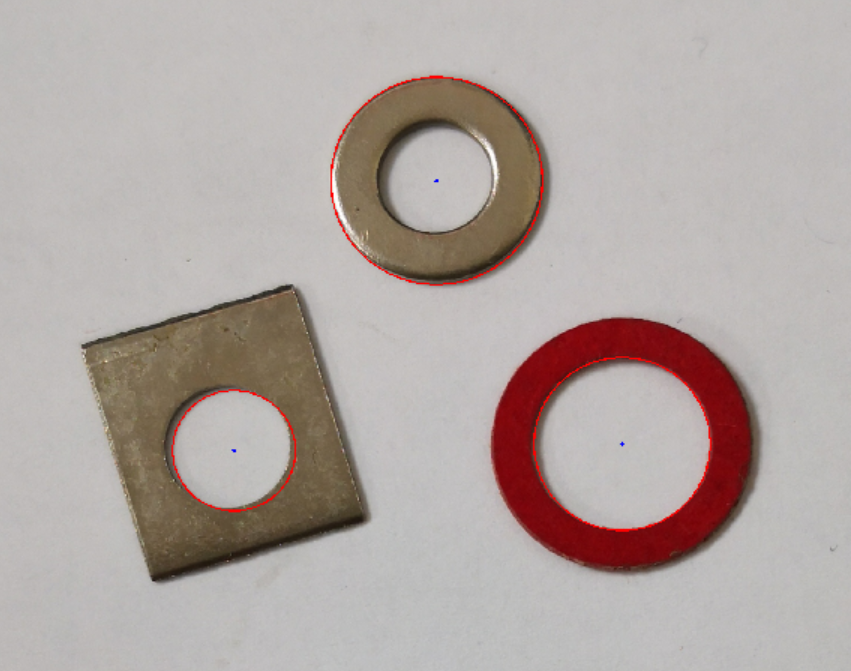
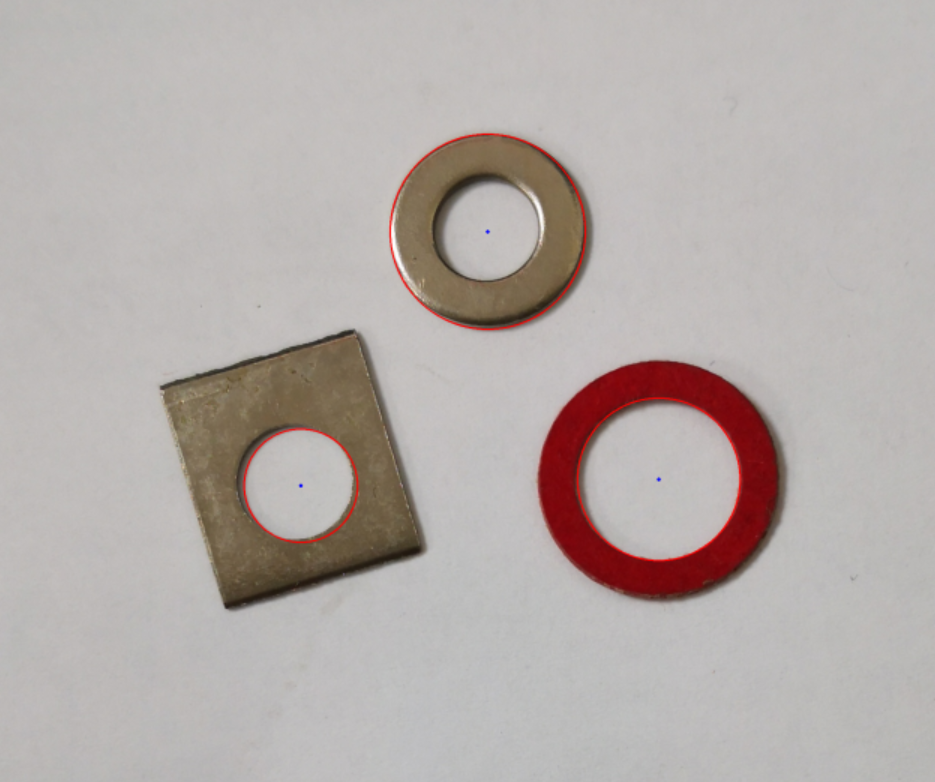
Site updated: 2023-04-06 20:30:58

diff --git a/2023/04/02/measure radius/index.html b/2023/04/02/measure radius/index.html
@@ -87,7 +87,7 @@
 <meta property="og:image" content="https://adwardmarx.github.io/2023/04/02/measure%20radius/colorful.jpg">
 <meta property="og:image" content="https://adwardmarx.github.io/2023/04/02/measure%20radius/processed.png">
 <meta property="article:published_time" content="2023-04-02T05:30:05.000Z">
-<meta property="article:modified_time" content="2023-04-05T05:07:31.638Z">
+<meta property="article:modified_time" content="2023-04-06T12:28:31.637Z">
 <meta property="article:author" content="Adward Marx">
 <meta name="twitter:card" content="summary">
 <meta name="twitter:image" content="https://adwardmarx.github.io/2023/04/02/measure%20radius/colorful.jpg">
@@ -347,7 +347,7 @@
         <p>The course, Machine Vision and Measruement, requires us to measure the washers’size.<br>We got this information:<br>The outer diameter of the washer (the middle and the top one) is 12mm.<br>We need to measure the inside diameter of the other two washers.</p>
 <span id="more"></span>
 <p><img src="/2023/04/02/measure%20radius/colorful.jpg"><br>This is my soloution.</p>
-<figure class="highlight bash"><table><tr><td class="gutter"><pre><span class="line">1</span><br><span class="line">2</span><br><span class="line">3</span><br><span class="line">4</span><br><span class="line">5</span><br><span class="line">6</span><br><span class="line">7</span><br><span class="line">8</span><br><span class="line">9</span><br><span class="line">10</span><br><span class="line">11</span><br><span class="line">12</span><br><span class="line">13</span><br><span class="line">14</span><br><span class="line">15</span><br><span class="line">16</span><br><span class="line">17</span><br><span class="line">18</span><br><span class="line">19</span><br><span class="line">20</span><br><span class="line">21</span><br><span class="line">22</span><br><span class="line">23</span><br><span class="line">24</span><br><span class="line">25</span><br><span class="line">26</span><br><span class="line">27</span><br><span class="line">28</span><br><span class="line">29</span><br><span class="line">30</span><br><span class="line">31</span><br><span class="line">32</span><br><span class="line">33</span><br><span class="line">34</span><br><span class="line">35</span><br><span class="line">36</span><br></pre></td><td class="code"><pre><span class="line">import cv2 as cv</span><br><span class="line">import numpy as np</span><br><span class="line"></span><br><span class="line">def detect_circles(image):</span><br><span class="line">    dst = cv.pyrMeanShiftFiltering(image, 10, 100) <span class="comment">#undo noise</span></span><br><span class="line">    cimage = cv.cvtColor(dst, cv.COLOR_BGR2GRAY)</span><br><span class="line">    circles = cv.HoughCircles(cimage, cv.HOUGH_GRADIENT, 1, 150, param1=20, param2=30, minRadius=0, maxRadius=200)</span><br><span class="line">    <span class="string">&#x27;&#x27;</span><span class="string">&#x27;</span></span><br><span class="line"><span class="string">    HoughCircles(image, method, dp, minDist, circles=None, param1=None, param2=None, minRadius=None, maxRadius=None)</span></span><br><span class="line"><span class="string">    1.image:input image (gray image)</span></span><br><span class="line"><span class="string">    2.method:use HoughCircles</span></span><br><span class="line"><span class="string">    3.dp:defaults to 1</span></span><br><span class="line"><span class="string">    4.minDist = more circles will be thought the same circle if this   value becomes larger</span></span><br><span class="line"><span class="string">    5.param1:Canny threshold</span></span><br><span class="line"><span class="string">    6.param2:this value should be small if the circle is small. however, it will identify more circles </span></span><br><span class="line"><span class="string">    7.minradius:the smallest radius that can be identified</span></span><br><span class="line"><span class="string">    8.maxradius:the largest radius that can be identified</span></span><br><span class="line"><span class="string">    &#x27;</span><span class="string">&#x27;&#x27;</span></span><br><span class="line">    <span class="built_in">factor</span> = 6/186</span><br><span class="line">    circles = np.uint16(np.around(circles)) <span class="comment">#round number</span></span><br><span class="line">    <span class="keyword">for</span> i <span class="keyword">in</span> circles[0, :]:</span><br><span class="line">        cv.circle(image, (i[0], i[1]), i[2], (0, 0, 255), 2)  <span class="comment">#draw circle</span></span><br><span class="line">        cv.circle(image, (i[0], i[1]), 2, (255, 0, 0), 2)  <span class="comment">#draw the center of circle</span></span><br><span class="line">        r = int(i[2])</span><br><span class="line">        x = int(i[0])</span><br><span class="line">        y = int(i[1])</span><br><span class="line">        <span class="built_in">print</span>(<span class="string">&quot;position of the center：&quot;</span>, (x, y))</span><br><span class="line">        <span class="built_in">print</span>(<span class="string">&quot;radius：&quot;</span>, np.around(r*<span class="built_in">factor</span>))</span><br><span class="line"></span><br><span class="line">src = cv.imread(<span class="string">&quot;image path&quot;</span>)</span><br><span class="line">detect_circles(src)</span><br><span class="line">cv.namedWindow(<span class="string">&quot;image&quot;</span>, 0)</span><br><span class="line">cv.resizeWindow(<span class="string">&#x27;image&#x27;</span>,800,720)</span><br><span class="line">cv.imshow(<span class="string">&quot;image&quot;</span>, src)</span><br><span class="line">cv.waitKey(0)</span><br><span class="line">cv.destroyAllWindows()</span><br></pre></td></tr></table></figure>
+<figure class="highlight bash"><table><tr><td class="gutter"><pre><span class="line">1</span><br><span class="line">2</span><br><span class="line">3</span><br><span class="line">4</span><br><span class="line">5</span><br><span class="line">6</span><br><span class="line">7</span><br><span class="line">8</span><br><span class="line">9</span><br><span class="line">10</span><br><span class="line">11</span><br><span class="line">12</span><br><span class="line">13</span><br><span class="line">14</span><br><span class="line">15</span><br><span class="line">16</span><br><span class="line">17</span><br><span class="line">18</span><br><span class="line">19</span><br><span class="line">20</span><br><span class="line">21</span><br><span class="line">22</span><br><span class="line">23</span><br><span class="line">24</span><br><span class="line">25</span><br><span class="line">26</span><br><span class="line">27</span><br><span class="line">28</span><br><span class="line">29</span><br><span class="line">30</span><br><span class="line">31</span><br><span class="line">32</span><br><span class="line">33</span><br><span class="line">34</span><br><span class="line">35</span><br><span class="line">36</span><br><span class="line">37</span><br><span class="line">38</span><br></pre></td><td class="code"><pre><span class="line">import cv2 as cv</span><br><span class="line">import numpy as np</span><br><span class="line"></span><br><span class="line">def detect_circles(image):</span><br><span class="line">    dst = cv.pyrMeanShiftFiltering(image, 10, 100) <span class="comment">#undo noise</span></span><br><span class="line">    cimage = cv.cvtColor(dst, cv.COLOR_BGR2GRAY)</span><br><span class="line">    circles = cv.HoughCircles(cimage, cv.HOUGH_GRADIENT, 1, 150, param1=20, param2=30, minRadius=0, maxRadius=200)</span><br><span class="line">    <span class="string">&#x27;&#x27;</span><span class="string">&#x27;</span></span><br><span class="line"><span class="string">    HoughCircles(image, method, dp, minDist, circles=None, param1=None, param2=None, minRadius=None, maxRadius=None)</span></span><br><span class="line"><span class="string">    1.image:input image (gray image)</span></span><br><span class="line"><span class="string">    2.method:use HoughCircles</span></span><br><span class="line"><span class="string">    3.dp:defaults to 1</span></span><br><span class="line"><span class="string">    4.minDist = more circles will be thought the same circle if this   value becomes larger</span></span><br><span class="line"><span class="string">    5.param1:Canny threshold</span></span><br><span class="line"><span class="string">    6.param2:this value should be small if the circle is small. however, it will identify more circles </span></span><br><span class="line"><span class="string">    7.minradius:the smallest radius that can be identified</span></span><br><span class="line"><span class="string">    8.maxradius:the largest radius that can be identified</span></span><br><span class="line"><span class="string">    &#x27;</span><span class="string">&#x27;&#x27;</span></span><br><span class="line">    <span class="built_in">factor</span> = 6/186</span><br><span class="line">    circles = np.uint16(np.around(circles)) <span class="comment">#round number</span></span><br><span class="line">    <span class="keyword">for</span> i <span class="keyword">in</span> circles[0, :]:</span><br><span class="line">        cv.circle(image, (i[0], i[1]), i[2], (0, 0, 255), 2)  <span class="comment">#draw circle</span></span><br><span class="line">        cv.circle(image, (i[0], i[1]), 2, (255, 0, 0), 2)  <span class="comment">#draw the center of circle</span></span><br><span class="line">        r = int(i[2])</span><br><span class="line">        x = int(i[0])</span><br><span class="line">        y = int(i[1])</span><br><span class="line">        <span class="built_in">print</span>(<span class="string">&quot;position of the center：&quot;</span>, (x, y))</span><br><span class="line">        <span class="built_in">print</span>(<span class="string">&quot;radius：&quot;</span>, np.around(r*<span class="built_in">factor</span>))</span><br><span class="line"></span><br><span class="line">src = cv.imread(<span class="string">&quot;image path&quot;</span>)</span><br><span class="line">detect_circles(src)</span><br><span class="line">scale = 35</span><br><span class="line">width = int(src.shape[1] * scale / 100)</span><br><span class="line">height = int(src.shape[0] * scale / 100)</span><br><span class="line">resized = cv.resize(src, (width, height), interpolation = cv.INTER_AREA)</span><br><span class="line">cv.imshow(<span class="string">&quot;image&quot;</span>, resized)</span><br><span class="line">cv.waitKey(0)</span><br><span class="line">cv.destroyAllWindows()</span><br></pre></td></tr></table></figure>
 <p>Attention: the parameters in HoughCircles should be adjusted as require.<br>The image below has been processed.<br><img src="/2023/04/02/measure%20radius/processed.png"><br>The measurements are 10mm(the right one) and 7mm.</p>
 
       
